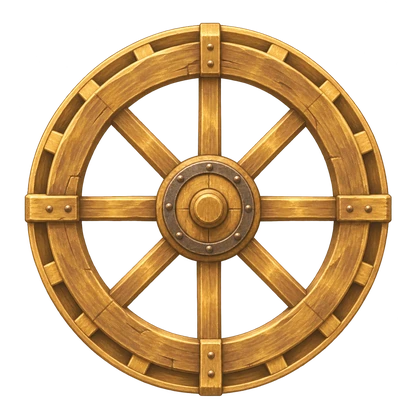
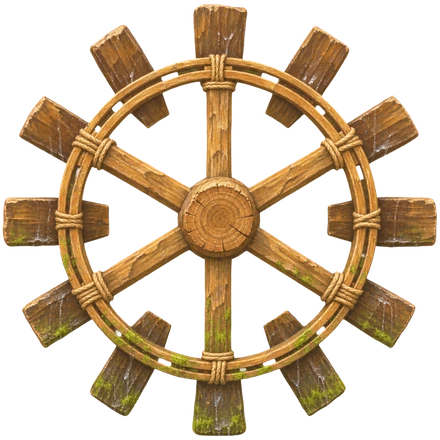
水车换成带叶板的真正水车造型，入水部分着色+浪花
Claude-Session: https://claude.ai/code/session_01Ug7SvjxsTvGWtWQTYLfcGg

diff --git a/js/assets.js b/js/assets.js
@@ -1,2 +1,2 @@
 // 素材清单（相对路径版）。单文件版里这一段会被换成内嵌的 data URI。
-window.ASSETS = {"img": {"axiu": "assets/axiu.webp", "b_axiu": "assets/b_axiu.webp", "b_dao_dz": "assets/b_dao_dz.webp", "b_dao_dz_m": "assets/b_dao_dz_m.webp", "b_dao_qm": "assets/b_dao_qm.webp", "b_dao_qm_m": "assets/b_dao_qm_m.webp", "b_dao_ty": "assets/b_dao_ty.webp", "b_dao_ty_m": "assets/b_dao_ty_m.webp", "b_deer": "assets/b_deer.webp", "b_fox": "assets/b_fox.webp", "b_girl": "assets/b_girl.webp", "b_hawk": "assets/b_hawk.webp", "b_mo_dj": "assets/b_mo_dj.webp", "b_mo_dj_m": "assets/b_mo_dj_m.webp", "b_mo_dz": "assets/b_mo_dz.webp", "b_mo_dz_m": "assets/b_mo_dz_m.webp", "b_mo_ms": "assets/b_mo_ms.webp", "b_mo_ms_m": "assets/b_mo_ms_m.webp", "b_novice_f": "assets/b_novice_f.webp", "b_novice_m": "assets/b_novice_m.webp", "b_player": "assets/b_player.webp", "b_rabbit": "assets/b_rabbit.webp", "b_ss_1221": "assets/b_ss_1221.webp", "b_ss_1222": "assets/b_ss_1222.webp", "b_ss_1223": "assets/b_ss_1223.webp", "b_ss_1224": "assets/b_ss_1224.webp", "b_ss_1225": "assets/b_ss_1225.webp", "b_ss_1226": "assets/b_ss_1226.webp", "b_ss_1227": "assets/b_ss_1227.webp", "b_ss_bs20": "assets/b_ss_bs20.webp", "b_tiger": "assets/b_tiger.webp", "b_wuchen": "assets/b_wuchen.webp", "b_yan": "assets/b_yan.webp", "bc_dao_dz": "assets/bc_dao_dz.webp", "bc_dao_dz_m": "assets/bc_dao_dz_m.webp", "bc_dao_qm": "assets/bc_dao_qm.webp", "bc_dao_qm_m": "assets/bc_dao_qm_m.webp", "bc_dao_ty": "assets/bc_dao_ty.webp", "bc_dao_ty_m": "assets/bc_dao_ty_m.webp", "bc_mo_dj": "assets/bc_mo_dj.webp", "bc_mo_dj_m": "assets/bc_mo_dj_m.webp", "bc_mo_dz": "assets/bc_mo_dz.webp", "bc_mo_dz_m": "assets/bc_mo_dz_m.webp", "bc_mo_ms": "assets/bc_mo_ms.webp", "bc_mo_ms_m": "assets/bc_mo_ms_m.webp", "bg_battle": "assets/bg_battle.webp", "bg_battle2": "assets/bg_battle2.webp", "bg_creek": "assets/bg_creek.webp", "bg_mist": "assets/bg_mist.webp", "bg_outskirts": "assets/bg_outskirts.webp", "bg_pine": "assets/bg_pine.webp", "bg_taixuforest": "assets/bg_taixuforest.webp", "bg_taixupeak": "assets/bg_taixupeak.webp", "bg_taixuvalley": "assets/bg_taixuvalley.webp", "bg_tower1": "assets/bg_tower1.webp", "bg_tower2": "assets/bg_tower2.webp", "bg_tower3": "assets/bg_tower3.webp", "bg_tower4": "assets/bg_tower4.webp", "bg_tower5": "assets/bg_tower5.webp", "bg_tower6": "assets/bg_tower6.webp", "bg_tower7": "assets/bg_tower7.webp", "bg_town": "assets/bg_town.webp", "bg_village": "assets/bg_village.webp", "bg_wild": "assets/bg_wild.webp", "bg_wolfvalley": "assets/bg_wolfvalley.webp", "boar": "assets/boar.webp", "boss": "assets/boss.webp", "bp_ss_1221": "assets/bp_ss_1221.webp", "bp_ss_1222": "assets/bp_ss_1222.webp", "bp_ss_1223": "assets/bp_ss_1223.webp", "bp_ss_1224": "assets/bp_ss_1224.webp", "bp_ss_1225": "assets/bp_ss_1225.webp", "bp_ss_1226": "assets/bp_ss_1226.webp", "bp_ss_1227": "assets/bp_ss_1227.webp", "bp_ss_bs20": "assets/bp_ss_bs20.webp", "cls_dao_dz": "assets/cls_dao_dz.webp", "cls_dao_dz_m": "assets/cls_dao_dz_m.webp", "cls_dao_qm": "assets/cls_dao_qm.webp", "cls_dao_qm_m": "assets/cls_dao_qm_m.webp", "cls_dao_ty": "assets/cls_dao_ty.webp", "cls_dao_ty_m": "assets/cls_dao_ty_m.webp", "cls_f_bow": "assets/cls_f_bow.webp", "cls_f_heal": "assets/cls_f_heal.webp", "cls_f_sword": "assets/cls_f_sword.webp", "cls_m_mage": "assets/cls_m_mage.webp", "cls_m_spear": "assets/cls_m_spear.webp", "cls_m_sword": "assets/cls_m_sword.webp", "cls_mo_dj": "assets/cls_mo_dj.webp", "cls_mo_dj_m": "assets/cls_mo_dj_m.webp", "cls_mo_dz": "assets/cls_mo_dz.webp", "cls_mo_dz_m": "assets/cls_mo_dz_m.webp", "cls_mo_ms": "assets/cls_mo_ms.webp", "cls_mo_ms_m": "assets/cls_mo_ms_m.webp", "cls_novice_f": "assets/cls_novice_f.webp", "cls_novice_m": "assets/cls_novice_m.webp", "dummy": "assets/dummy.webp", "elder": "assets/elder.webp", "f_blade": "assets/f_blade.webp", "f_crane": "assets/f_crane.webp", "f_dragon": "assets/f_dragon.webp", "f_healer": "assets/f_healer.webp", "f_panda": "assets/f_panda.webp", "f_panther": "assets/f_panther.webp", "f_spear": "assets/f_spear.webp", "f_sword": "assets/f_sword.webp", "f_tao": "assets/f_tao.webp", "f_tortoise": "assets/f_tortoise.webp", "fox": "assets/fox.webp", "fx_chain": "assets/fx_chain.webp", "fx_heal": "assets/fx_heal.webp", "fx_mist": "assets/fx_mist.webp", "fx_notes": "assets/fx_notes.webp", "fx_revive": "assets/fx_revive.webp", "fx_ring": "assets/fx_ring.webp", "fx_soul": "assets/fx_soul.webp", "fx_wave": "assets/fx_wave.webp", "fxc_chain": "assets/fxc_chain.webp", "fxc_heal": "assets/fxc_heal.webp", "fxc_mist": "assets/fxc_mist.webp", "fxc_notes": "assets/fxc_notes.webp", "fxc_revive": "assets/fxc_revive.webp", "fxc_soul": "assets/fxc_soul.webp", "fxc_wave": "assets/fxc_wave.webp", "girl": "assets/girl.webp", "grunt": "assets/grunt.webp", "head_axiu": "assets/head_axiu.webp", "head_dao_dz": "assets/head_dao_dz.webp", "head_dao_dz_m": "assets/head_dao_dz_m.webp", "head_dao_qm": "assets/head_dao_qm.webp", "head_dao_qm_m": "assets/head_dao_qm_m.webp", "head_dao_ty": "assets/head_dao_ty.webp", "head_dao_ty_m": "assets/head_dao_ty_m.webp", "head_elder": "assets/head_elder.webp", "head_f_bow": "assets/head_f_bow.webp", "head_f_heal": "assets/head_f_heal.webp", "head_f_sword": "assets/head_f_sword.webp", "head_girl": "assets/head_girl.webp", "head_kk_npc07": "assets/head_kk_npc07.webp", "head_kk_npc13": "assets/head_kk_npc13.webp", "head_kk_npc14": "assets/head_kk_npc14.webp", "head_kk_npc33": "assets/head_kk_npc33.webp", "head_kk_npc45": "assets/head_kk_npc45.webp", "head_kk_npc47": "assets/head_kk_npc47.webp", "head_kk_npc57": "assets/head_kk_npc57.webp", "head_kk_npc_cyblq": "assets/head_kk_npc_cyblq.webp", "head_kk_npc_zhw": "assets/head_kk_npc_zhw.webp", "head_m_mage": "assets/head_m_mage.webp", "head_m_spear": "assets/head_m_spear.webp", "head_m_sword": "assets/head_m_sword.webp", "head_mo_dj": "assets/head_mo_dj.webp", "head_mo_dj_m": "assets/head_mo_dj_m.webp", "head_mo_dz": "assets/head_mo_dz.webp", "head_mo_dz_m": "assets/head_mo_dz_m.webp", "head_mo_ms": "assets/head_mo_ms.webp", "head_mo_ms_m": "assets/head_mo_ms_m.webp", "head_novice_f": "assets/head_novice_f.webp", "head_novice_m": "assets/head_novice_m.webp", "head_player": "assets/head_player.webp", "head_smith": "assets/head_smith.webp", "head_vendor": "assets/head_vendor.webp", "head_waiter": "assets/head_waiter.webp", "icon_act": "assets/icon_act.webp", "icon_auto": "assets/icon_auto.webp", "icon_bag": "assets/icon_bag.webp", "icon_friend": "assets/icon_friend.webp", "icon_gear": "assets/icon_gear.webp", "icon_gift": "assets/icon_gift.webp", "icon_guild": "assets/icon_guild.webp", "icon_mall": "assets/icon_mall.webp", "icon_map": "assets/icon_map.webp", "icon_pet": "assets/icon_pet.webp", "icon_potion": "assets/icon_potion.webp", "icon_quest": "assets/icon_quest.webp", "icon_rank": "assets/icon_rank.webp", "icon_ride": "assets/icon_ride.webp", "icon_role": "assets/icon_role.webp", "icon_skill": "assets/icon_skill.webp", "item_bagua_mirror": "assets/item_bagua_mirror.webp", "item_brocade_pouch": "assets/item_brocade_pouch.webp", "item_bronze_bell": "assets/item_bronze_bell.webp", "item_chest": "assets/item_chest.webp", "item_cloth_armor": "assets/item_cloth_armor.webp", "item_cloth_boots": "assets/item_cloth_boots.webp", "item_cloud_boots": "assets/item_cloud_boots.webp", "item_coins": "assets/item_coins.webp", "item_copper_ring": "assets/item_copper_ring.webp", "item_crimson_sword": "assets/item_crimson_sword.webp", "item_forge_1": "assets/item_forge_1.webp", "item_forge_2": "assets/item_forge_2.webp", "item_forge_3": "assets/item_forge_3.webp", "item_forge_4": "assets/item_forge_4.webp", "item_forge_5": "assets/item_forge_5.webp", "item_gem_atk": "assets/item_gem_atk.webp", "item_gem_crit": "assets/item_gem_crit.webp", "item_gem_def": "assets/item_gem_def.webp", "item_gem_dodge": "assets/item_gem_dodge.webp", "item_gem_hp": "assets/item_gem_hp.webp", "item_gem_matk": "assets/item_gem_matk.webp", "item_gem_mdef": "assets/item_gem_mdef.webp", "item_gem_mp": "assets/item_gem_mp.webp", "item_gem_spd": "assets/item_gem_spd.webp", "item_herb_pouch": "assets/item_herb_pouch.webp", "item_hp_potion": "assets/item_hp_potion.webp", "item_iron_armor": "assets/item_iron_armor.webp", "item_iron_greaves": "assets/item_iron_greaves.webp", "item_iron_helm": "assets/item_iron_helm.webp", "item_iron_sword": "assets/item_iron_sword.webp", "item_jade_belt": "assets/item_jade_belt.webp", "item_jade_charm": "assets/item_jade_charm.webp", "item_jade_pendant": "assets/item_jade_pendant.webp", "item_jade_sword": "assets/item_jade_sword.webp", "item_lantern": "assets/item_lantern.webp", "item_leather_armor": "assets/item_leather_armor.webp", "item_leather_bracer": "assets/item_leather_bracer.webp", "item_leather_cap": "assets/item_leather_cap.webp", "item_linen_belt": "assets/item_linen_belt.webp", "item_linen_legs": "assets/item_linen_legs.webp", "item_mp_potion": "assets/item_mp_potion.webp", "item_ore": "assets/item_ore.webp", "item_peace_charm": "assets/item_peace_charm.webp", "item_phoenix_armor": "assets/item_phoenix_armor.webp", "item_sachet": "assets/item_sachet.webp", "item_scale_armor": "assets/item_scale_armor.webp", "item_silver_ring": "assets/item_silver_ring.webp", "item_steel_bracer": "assets/item_steel_bracer.webp", "item_steel_saber": "assets/item_steel_saber.webp", "item_steel_sword": "assets/item_steel_sword.webp", "item_wolf_fang": "assets/item_wolf_fang.webp", "item_wood_beads": "assets/item_wood_beads.webp", "kk_npc07": "assets/kk_npc07.webp", "kk_npc13": "assets/kk_npc13.webp", "kk_npc14": "assets/kk_npc14.webp", "kk_npc33": "assets/kk_npc33.webp", "kk_npc45": "assets/kk_npc45.webp", "kk_npc47": "assets/kk_npc47.webp", "kk_npc57": "assets/kk_npc57.webp", "kk_npc_cyblq": "assets/kk_npc_cyblq.webp", "kk_npc_zhw": "assets/kk_npc_zhw.webp", "login": "assets/login.webp", "mini_creek": "assets/mini_creek.jpg", "mini_mist": "assets/mini_mist.jpg", "mini_outskirts": "assets/mini_outskirts.jpg", "mini_pine": "assets/mini_pine.jpg", "mini_taixuforest": "assets/mini_taixuforest.jpg", "mini_taixupeak": "assets/mini_taixupeak.jpg", "mini_taixuvalley": "assets/mini_taixuvalley.jpg", "mini_tower1": "assets/mini_tower1.jpg", "mini_tower2": "assets/mini_tower2.jpg", "mini_tower3": "assets/mini_tower3.jpg", "mini_tower4": "assets/mini_tower4.jpg", "mini_tower5": "assets/mini_tower5.jpg", "mini_tower6": "assets/mini_tower6.jpg", "mini_tower7": "assets/mini_tower7.jpg", "mini_town": "assets/mini_town.jpg", "mini_village": "assets/mini_village.jpg", "mini_wild": "assets/mini_wild.jpg", "mini_wolfvalley": "assets/mini_wolfvalley.jpg", "pd_ss_1221": "assets/pd_ss_1221.webp", "pd_ss_1222": "assets/pd_ss_1222.webp", "pd_ss_1223": "assets/pd_ss_1223.webp", "pd_ss_1224": "assets/pd_ss_1224.webp", "pd_ss_1225": "assets/pd_ss_1225.webp", "pd_ss_1226": "assets/pd_ss_1226.webp", "pd_ss_1227": "assets/pd_ss_1227.webp", "pd_ss_bs20": "assets/pd_ss_bs20.webp", "pfx_ss_1221": "assets/pfx_ss_1221.webp", "pfx_ss_1222": "assets/pfx_ss_1222.webp", "pfx_ss_1223": "assets/pfx_ss_1223.webp", "pfx_ss_1224": "assets/pfx_ss_1224.webp", "pfx_ss_1225": "assets/pfx_ss_1225.webp", "pfx_ss_1226": "assets/pfx_ss_1226.webp", "pfx_ss_1227": "assets/pfx_ss_1227.webp", "pfx_ss_bs20": "assets/pfx_ss_bs20.webp", "player": "assets/player.webp", "smith": "assets/smith.webp", "vendor": "assets/vendor.webp", "waiter": "assets/waiter.webp", "walk_b": "assets/walk_b.webp", "walk_b_dao_dz": "assets/walk_b_dao_dz.webp", "walk_b_dao_dz_m": "assets/walk_b_dao_dz_m.webp", "walk_b_dao_qm": "assets/walk_b_dao_qm.webp", "walk_b_dao_qm_m": "assets/walk_b_dao_qm_m.webp", "walk_b_dao_ty": "assets/walk_b_dao_ty.webp", "walk_b_dao_ty_m": "assets/walk_b_dao_ty_m.webp", "walk_b_mo_dj": "assets/walk_b_mo_dj.webp", "walk_b_mo_dj_m": "assets/walk_b_mo_dj_m.webp", "walk_b_mo_dz": "assets/walk_b_mo_dz.webp", "walk_b_mo_dz_m": "assets/walk_b_mo_dz_m.webp", "walk_b_mo_ms": "assets/walk_b_mo_ms.webp", "walk_b_mo_ms_m": "assets/walk_b_mo_ms_m.webp", "walk_b_novice_f": "assets/walk_b_novice_f.webp", "walk_b_novice_m": "assets/walk_b_novice_m.webp", "walk_f": "assets/walk_f.webp", "walk_f_dao_dz": "assets/walk_f_dao_dz.webp", "walk_f_dao_dz_m": "assets/walk_f_dao_dz_m.webp", "walk_f_dao_qm": "assets/walk_f_dao_qm.webp", "walk_f_dao_qm_m": "assets/walk_f_dao_qm_m.webp", "walk_f_dao_ty": "assets/walk_f_dao_ty.webp", "walk_f_dao_ty_m": "assets/walk_f_dao_ty_m.webp", "walk_f_mo_dj": "assets/walk_f_mo_dj.webp", "walk_f_mo_dj_m": "assets/walk_f_mo_dj_m.webp", "walk_f_mo_dz": "assets/walk_f_mo_dz.webp", "walk_f_mo_dz_m": "assets/walk_f_mo_dz_m.webp", "walk_f_mo_ms": "assets/walk_f_mo_ms.webp", "walk_f_mo_ms_m": "assets/walk_f_mo_ms_m.webp", "walk_f_novice_f": "assets/walk_f_novice_f.webp", "walk_f_novice_m": "assets/walk_f_novice_m.webp", "wolf": "assets/wolf.webp", "world": "assets/world.webp", "kk_mo_ms": "assets/kk_mo_ms.webp", "head_kk_mo_ms": "assets/head_kk_mo_ms.webp", "kk_mo_dj": "assets/kk_mo_dj.webp", "head_kk_mo_dj": "assets/head_kk_mo_dj.webp", "fx_mo_tiger": "assets/fx_mo_tiger.webp", "fx_mo_roar": "assets/fx_mo_roar.webp", "fx_mo_slash": "assets/fx_mo_slash.webp", "fx_mo_blood": "assets/fx_mo_blood.webp", "fx_mo_pojia": "assets/fx_mo_pojia.webp", "fx_mo_bone": "assets/fx_mo_bone.webp", "fx_mo_song": "assets/fx_mo_song.webp", "fx_mo_dragon": "assets/fx_mo_dragon.webp", "ph_ss_1221": "assets/ph_ss_1221.webp", "ph_ss_1222": "assets/ph_ss_1222.webp", "ph_ss_1223": "assets/ph_ss_1223.webp", "ph_ss_1224": "assets/ph_ss_1224.webp", "ph_ss_1225": "assets/ph_ss_1225.webp", "ph_ss_1226": "assets/ph_ss_1226.webp", "ph_ss_1227": "assets/ph_ss_1227.webp", "ph_ss_bs20": "assets/ph_ss_bs20.webp", "kk_axiu": "assets/kk_axiu.webp", "head_kk_axiu": "assets/head_kk_axiu.webp", "portal_array": "assets/portal_array.webp", "wheel": "assets/wheel.webp"}, "size": {"player": [55.0, 112.0], "fox": [39.0, 50.0], "waiter": [46.5, 102.0], "smith": [62.0, 112.0], "girl": [48.0, 102.0], "vendor": [54.0, 100.0], "grunt": [96.5, 108.0], "wolf": [89.5, 72.0], "boss": [128.5, 150.0], "elder": [59.5, 104.0], "axiu": [50.5, 100.0], "dummy": [66.5, 110.0], "boar": [74.5, 78.0], "b_player": [99.0, 130.0], "b_axiu": [53.5, 124.0], "b_girl": [76.0, 128.0], "b_yan": [79.0, 132.0], "b_wuchen": [104.0, 132.0], "b_fox": [51.5, 66.0], "b_deer": [52.0, 80.0], "b_rabbit": [40.5, 60.0], "b_hawk": [109.5, 74.0], "b_tiger": [68.0, 68.0], "f_sword": [78.0, 130.0], "f_tao": [75.0, 134.0], "f_blade": [98.5, 140.0], "f_healer": [79.5, 130.0], "f_spear": [97.0, 134.0], "f_panther": [63.0, 62.0], "f_crane": [94.0, 86.0], "f_dragon": [64.5, 78.0], "f_panda": [82.0, 68.0], "f_tortoise": [65.0, 60.0], "world": [2300, 2300], "walk_f": [77.0, 123.5, 35.217675941080195], "walk_b": [66.5, 120.0, 45.688926458157226], "walk_f_dao_ty": [97.0, 121.5, 51.24558587479936], "walk_b_dao_ty": [87.0, 120.0, 45.2175], "walk_f_dao_qm": [97.0, 120.5, 51.42605915267786], "walk_b_dao_qm": [90.0, 120.0, 46.9875], "b_dao_ty": [114.5, 126.0], "b_dao_qm": [133.5, 126.0], "walk_f_novice_f": [101.0, 121.0, 41.202657807308974], "walk_b_novice_f": [90.0, 123.5, 48.051238257899236], "b_novice_f": [117.0, 126.0], "walk_f_novice_m": [108.0, 120.0, 46.58414239482201], "walk_b_novice_m": [80.0, 122.5, 35.21258503401361], "b_novice_m": [128.0, 126.0], "walk_f_dao_ty_m": [67.5, 121.5, 32.28397873955961], "walk_b_dao_ty_m": [66.5, 122.5, 36.781015820149875], "walk_f_dao_qm_m": [62.5, 123.0, 30.910906298003074], "walk_b_dao_qm_m": [68.5, 120.5, 31.071155317521043], "b_dao_ty_m": [91.0, 126.0], "b_dao_qm_m": [129.5, 126.0], "walk_f_dao_dz": [96.5, 121.5, 51.97423510466989], "walk_b_dao_dz": [89.5, 120.0, 48.87468671679198], "b_dao_dz": [93.0, 126.0], "walk_f_dao_dz_m": [73.0, 122.5, 33.87975646879757], "walk_b_dao_dz_m": [67.5, 122.0, 39.39297658862876], "b_dao_dz_m": [69.0, 126.0], "bc_dao_dz": [145.0, 145.0], "bc_dao_dz_m": [105.0, 145.0], "bc_dao_qm": [148.5, 145.0], "bc_dao_qm_m": [113.0, 145.0], "bc_dao_ty": [123.5, 145.0], "bc_dao_ty_m": [124.0, 145.0], "walk_f_mo_ms": [108.0, 120.0, 61.297478991596634], "walk_b_mo_ms": [114.5, 120.0, 49.28597449908925], "b_mo_ms": [102.0, 126.0], "bc_mo_ms": [149.0, 145.0], "walk_f_mo_ms_m": [109.5, 122.5, 65.20658135283364], "walk_b_mo_ms_m": [103.5, 124.5, 38.951557093425606], "b_mo_ms_m": [105.0, 126.0], "bc_mo_ms_m": [154.5, 145.0], "walk_f_mo_dj": [91.0, 121.5, 47.10910582444627], "walk_b_mo_dj": [84.0, 123.0, 42.84987694831829], "b_mo_dj": [79.0, 126.0], "bc_mo_dj": [151.0, 145.0], "walk_f_mo_dj_m": [90.0, 121.0, 53.61199294532628], "walk_b_mo_dj_m": [88.0, 124.5, 38.284751474304976], "b_mo_dj_m": [83.0, 126.0], "bc_mo_dj_m": [163.5, 145.0], "walk_f_mo_dz": [79.5, 120.5, 40.15627597672486], "walk_b_mo_dz": [83.0, 120.0, 38.76588337684944], "b_mo_dz": [87.0, 126.0], "bc_mo_dz": [156.5, 145.0], "walk_f_mo_dz_m": [88.5, 120.0, 49.593333333333334], "walk_b_mo_dz_m": [86.5, 122.0, 37.96190476190476], "b_mo_dz_m": [90.5, 126.0], "bc_mo_dz_m": [163.0, 145.0], "b_ss_1221": [140.8, 158], "bp_ss_1221": [227.2, 172.8], "b_ss_1222": [132.6, 160], "bp_ss_1222": [188.8, 162.8], "b_ss_1223": [121.1, 150], "bp_ss_1223": [172.4, 157.7], "b_ss_1224": [117.5, 150], "bp_ss_1224": [188.4, 155.7], "b_ss_1225": [143.4, 150], "bp_ss_1225": [238.4, 152.3], "b_ss_1226": [152.2, 165], "bp_ss_1226": [259.3, 183.2], "b_ss_1227": [95.6, 142], "bp_ss_1227": [170.2, 146.1], "b_ss_bs20": [129.8, 112], "bp_ss_bs20": [225.3, 121.5], "pfx_ss_1227": [184.1, 90.3], "pfx_ss_1222": [268.2, 75.5], "pfx_ss_1223": [238.2, 107.6], "pfx_ss_1224": [289.6, 277.1], "pfx_ss_1225": [237.3, 527.3], "pfx_ss_1226": [208.8, 123.8], "pfx_ss_1221": [205.3, 153.5], "pfx_ss_bs20": [154.5, 138.8], "pd_ss_1221": [153.0, 158], "pd_ss_1222": [151.2, 160], "pd_ss_1223": [141.6, 150], "pd_ss_1224": [136.6, 150], "pd_ss_1225": [194.9, 150], "pd_ss_1226": [195.0, 165], "pd_ss_1227": [117.2, 142], "pd_ss_bs20": [128.2, 112], "kk_npc14": [58.0, 104.0], "kk_npc_zhw": [78.0, 118.0], "kk_npc_cyblq": [107.0, 132.0], "kk_npc13": [48.0, 104.0], "kk_npc07": [47.0, 104.0], "kk_npc33": [49.5, 104.0], "kk_npc57": [145.0, 150.0], "kk_npc45": [120.0, 150.0], "kk_npc47": [143.0, 156.0], "kk_mo_ms": [138.0, 150.0], "kk_mo_dj": [117.0, 150.0], "kk_axiu": [54.5, 104.0], "portal_array": [200.0, 95.0], "wheel": [420, 416]}, "pet": {"b_ss_1221": {"sheet": "bp_ss_1221", "cols": 6, "rows": 2, "cw": 227.2, "ch": 172.8, "ox": 113.6, "by": 0, "H": 158, "seq": {"idle": [[0, 150]], "atk": [[4, 120], [5, 120], [6, 120], [7, 120]], "hit": [[8, 110], [9, 110]], "dodge": [[10, 110]]}, "rel": {"atk": 2}, "pfx": {"sheet": "pfx_ss_1221", "n": 4, "cw": 205.3, "ch": 153.5, "map": {"ss_hit": [0, 1], "ss_qk": [2, 3]}, "sc": {"ss_hit": 0.9, "ss_qk": 1.2}}}, "b_ss_1222": {"sheet": "bp_ss_1222", "cols": 6, "rows": 2, "cw": 188.8, "ch": 162.8, "ox": 94.4, "by": 0, "H": 160, "seq": {"idle": [[0, 150]], "atk": [[4, 120], [5, 120], [6, 120], [7, 120]], "hit": [[8, 110], [9, 110]], "dodge": [[10, 110]]}, "rel": {"atk": 2}, "pfx": {"sheet": "pfx_ss_1222", "n": 4, "cw": 268.2, "ch": 75.5, "map": {"ss_hit": [0, 1], "ss_sy": [2, 3]}, "sc": {"ss_hit": 1, "ss_sy": 1.2}}}, "b_ss_1223": {"sheet": "bp_ss_1223", "cols": 6, "rows": 2, "cw": 172.4, "ch": 157.7, "ox": 86.2, "by": 0, "H": 150, "seq": {"idle": [[0, 150]], "atk": [[4, 120], [5, 120], [6, 120], [7, 120]], "hit": [[8, 110], [9, 110]], "dodge": [[10, 110]]}, "rel": {"atk": 2}, "pfx": {"sheet": "pfx_ss_1223", "n": 6, "cw": 238.2, "ch": 107.6, "map": {"ss_hit": [0, 1], "ss_sx": [2, 3], "ss_tsy": [4, 5]}, "sc": {"ss_hit": 1, "ss_sx": 1.1, "ss_tsy": 1.3}}}, "b_ss_1224": {"sheet": "bp_ss_1224", "cols": 6, "rows": 2, "cw": 188.4, "ch": 155.7, "ox": 94.2, "by": 0, "H": 150, "seq": {"idle": [[0, 150]], "atk": [[4, 120], [5, 120], [6, 120], [7, 120]], "hit": [[8, 110], [9, 110]], "dodge": [[10, 110]]}, "rel": {"atk": 2}, "pfx": {"sheet": "pfx_ss_1224", "n": 3, "cw": 289.6, "ch": 277.1, "map": {"ss_hit": [0], "ss_ts": [1, 2]}, "sc": {"ss_hit": 1, "ss_ts": 1.2}}}, "b_ss_1225": {"sheet": "bp_ss_1225", "cols": 6, "rows": 2, "cw": 238.4, "ch": 152.3, "ox": 119.2, "by": 0, "H": 150, "seq": {"idle": [[0, 150]], "atk": [[4, 120], [5, 120], [6, 120], [7, 120]], "hit": [[8, 110], [9, 110]], "dodge": [[10, 110]]}, "rel": {"atk": 2}, "pfx": {"sheet": "pfx_ss_1225", "n": 4, "cw": 237.3, "ch": 527.3, "map": {"ss_hit": [0, 1], "ss_sg": [2, 3]}, "sc": {"ss_hit": 1, "ss_sg": 1.3}}}, "b_ss_1226": {"sheet": "bp_ss_1226", "cols": 6, "rows": 2, "cw": 259.3, "ch": 183.2, "ox": 129.7, "by": 0, "H": 165, "seq": {"idle": [[0, 150]], "atk": [[4, 120], [5, 120], [6, 120], [7, 120]], "hit": [[8, 110], [9, 110]], "dodge": [[10, 110]]}, "rel": {"atk": 2}, "pfx": {"sheet": "pfx_ss_1226", "n": 10, "cw": 208.8, "ch": 123.8, "map": {"ss_hit": [0, 1, 2, 3], "ss_th": [4, 5, 6], "ss_dy": [7, 8, 9]}, "sc": {"ss_hit": 1, "ss_th": 1.5, "ss_dy": 1.2}}}, "b_ss_1227": {"sheet": "bp_ss_1227", "cols": 6, "rows": 2, "cw": 170.2, "ch": 146.1, "ox": 85.1, "by": 0, "H": 142, "seq": {"idle": [[0, 150]], "atk": [[4, 120], [5, 120], [6, 120], [7, 120]], "hit": [[8, 110], [9, 110]], "dodge": [[10, 110]]}, "rel": {"atk": 2}, "pfx": {"sheet": "pfx_ss_1227", "n": 7, "cw": 184.1, "ch": 90.3, "map": {"ss_hit": [0, 1], "ss_sl_bw": [2, 3], "ss_kl": [4, 5, 6]}, "sc": {"ss_hit": 1, "ss_sl_bw": 1, "ss_kl": 1.3}}}, "b_ss_bs20": {"sheet": "bp_ss_bs20", "cols": 6, "rows": 2, "cw": 225.3, "ch": 121.5, "ox": 112.6, "by": 0, "H": 112, "seq": {"idle": [[0, 150]], "atk": [[4, 120], [5, 120], [6, 120], [7, 120]], "hit": [[8, 110], [9, 110]], "dodge": [[10, 110]]}, "rel": {"atk": 2}, "pfx": {"sheet": "pfx_ss_bs20", "n": 6, "cw": 154.5, "ch": 138.8, "map": {"attack": [0, 1], "bite": [2, 3], "foxfire": [4, 5]}, "sc": {"attack": 1, "bite": 1, "foxfire": 1.3}}}}, "occ": {}};
+window.ASSETS = {"img": {"axiu": "assets/axiu.webp", "b_axiu": "assets/b_axiu.webp", "b_dao_dz": "assets/b_dao_dz.webp", "b_dao_dz_m": "assets/b_dao_dz_m.webp", "b_dao_qm": "assets/b_dao_qm.webp", "b_dao_qm_m": "assets/b_dao_qm_m.webp", "b_dao_ty": "assets/b_dao_ty.webp", "b_dao_ty_m": "assets/b_dao_ty_m.webp", "b_deer": "assets/b_deer.webp", "b_fox": "assets/b_fox.webp", "b_girl": "assets/b_girl.webp", "b_hawk": "assets/b_hawk.webp", "b_mo_dj": "assets/b_mo_dj.webp", "b_mo_dj_m": "assets/b_mo_dj_m.webp", "b_mo_dz": "assets/b_mo_dz.webp", "b_mo_dz_m": "assets/b_mo_dz_m.webp", "b_mo_ms": "assets/b_mo_ms.webp", "b_mo_ms_m": "assets/b_mo_ms_m.webp", "b_novice_f": "assets/b_novice_f.webp", "b_novice_m": "assets/b_novice_m.webp", "b_player": "assets/b_player.webp", "b_rabbit": "assets/b_rabbit.webp", "b_ss_1221": "assets/b_ss_1221.webp", "b_ss_1222": "assets/b_ss_1222.webp", "b_ss_1223": "assets/b_ss_1223.webp", "b_ss_1224": "assets/b_ss_1224.webp", "b_ss_1225": "assets/b_ss_1225.webp", "b_ss_1226": "assets/b_ss_1226.webp", "b_ss_1227": "assets/b_ss_1227.webp", "b_ss_bs20": "assets/b_ss_bs20.webp", "b_tiger": "assets/b_tiger.webp", "b_wuchen": "assets/b_wuchen.webp", "b_yan": "assets/b_yan.webp", "bc_dao_dz": "assets/bc_dao_dz.webp", "bc_dao_dz_m": "assets/bc_dao_dz_m.webp", "bc_dao_qm": "assets/bc_dao_qm.webp", "bc_dao_qm_m": "assets/bc_dao_qm_m.webp", "bc_dao_ty": "assets/bc_dao_ty.webp", "bc_dao_ty_m": "assets/bc_dao_ty_m.webp", "bc_mo_dj": "assets/bc_mo_dj.webp", "bc_mo_dj_m": "assets/bc_mo_dj_m.webp", "bc_mo_dz": "assets/bc_mo_dz.webp", "bc_mo_dz_m": "assets/bc_mo_dz_m.webp", "bc_mo_ms": "assets/bc_mo_ms.webp", "bc_mo_ms_m": "assets/bc_mo_ms_m.webp", "bg_battle": "assets/bg_battle.webp", "bg_battle2": "assets/bg_battle2.webp", "bg_creek": "assets/bg_creek.webp", "bg_mist": "assets/bg_mist.webp", "bg_outskirts": "assets/bg_outskirts.webp", "bg_pine": "assets/bg_pine.webp", "bg_taixuforest": "assets/bg_taixuforest.webp", "bg_taixupeak": "assets/bg_taixupeak.webp", "bg_taixuvalley": "assets/bg_taixuvalley.webp", "bg_tower1": "assets/bg_tower1.webp", "bg_tower2": "assets/bg_tower2.webp", "bg_tower3": "assets/bg_tower3.webp", "bg_tower4": "assets/bg_tower4.webp", "bg_tower5": "assets/bg_tower5.webp", "bg_tower6": "assets/bg_tower6.webp", "bg_tower7": "assets/bg_tower7.webp", "bg_town": "assets/bg_town.webp", "bg_village": "assets/bg_village.webp", "bg_wild": "assets/bg_wild.webp", "bg_wolfvalley": "assets/bg_wolfvalley.webp", "boar": "assets/boar.webp", "boss": "assets/boss.webp", "bp_ss_1221": "assets/bp_ss_1221.webp", "bp_ss_1222": "assets/bp_ss_1222.webp", "bp_ss_1223": "assets/bp_ss_1223.webp", "bp_ss_1224": "assets/bp_ss_1224.webp", "bp_ss_1225": "assets/bp_ss_1225.webp", "bp_ss_1226": "assets/bp_ss_1226.webp", "bp_ss_1227": "assets/bp_ss_1227.webp", "bp_ss_bs20": "assets/bp_ss_bs20.webp", "cls_dao_dz": "assets/cls_dao_dz.webp", "cls_dao_dz_m": "assets/cls_dao_dz_m.webp", "cls_dao_qm": "assets/cls_dao_qm.webp", "cls_dao_qm_m": "assets/cls_dao_qm_m.webp", "cls_dao_ty": "assets/cls_dao_ty.webp", "cls_dao_ty_m": "assets/cls_dao_ty_m.webp", "cls_f_bow": "assets/cls_f_bow.webp", "cls_f_heal": "assets/cls_f_heal.webp", "cls_f_sword": "assets/cls_f_sword.webp", "cls_m_mage": "assets/cls_m_mage.webp", "cls_m_spear": "assets/cls_m_spear.webp", "cls_m_sword": "assets/cls_m_sword.webp", "cls_mo_dj": "assets/cls_mo_dj.webp", "cls_mo_dj_m": "assets/cls_mo_dj_m.webp", "cls_mo_dz": "assets/cls_mo_dz.webp", "cls_mo_dz_m": "assets/cls_mo_dz_m.webp", "cls_mo_ms": "assets/cls_mo_ms.webp", "cls_mo_ms_m": "assets/cls_mo_ms_m.webp", "cls_novice_f": "assets/cls_novice_f.webp", "cls_novice_m": "assets/cls_novice_m.webp", "dummy": "assets/dummy.webp", "elder": "assets/elder.webp", "f_blade": "assets/f_blade.webp", "f_crane": "assets/f_crane.webp", "f_dragon": "assets/f_dragon.webp", "f_healer": "assets/f_healer.webp", "f_panda": "assets/f_panda.webp", "f_panther": "assets/f_panther.webp", "f_spear": "assets/f_spear.webp", "f_sword": "assets/f_sword.webp", "f_tao": "assets/f_tao.webp", "f_tortoise": "assets/f_tortoise.webp", "fox": "assets/fox.webp", "fx_chain": "assets/fx_chain.webp", "fx_heal": "assets/fx_heal.webp", "fx_mist": "assets/fx_mist.webp", "fx_notes": "assets/fx_notes.webp", "fx_revive": "assets/fx_revive.webp", "fx_ring": "assets/fx_ring.webp", "fx_soul": "assets/fx_soul.webp", "fx_wave": "assets/fx_wave.webp", "fxc_chain": "assets/fxc_chain.webp", "fxc_heal": "assets/fxc_heal.webp", "fxc_mist": "assets/fxc_mist.webp", "fxc_notes": "assets/fxc_notes.webp", "fxc_revive": "assets/fxc_revive.webp", "fxc_soul": "assets/fxc_soul.webp", "fxc_wave": "assets/fxc_wave.webp", "girl": "assets/girl.webp", "grunt": "assets/grunt.webp", "head_axiu": "assets/head_axiu.webp", "head_dao_dz": "assets/head_dao_dz.webp", "head_dao_dz_m": "assets/head_dao_dz_m.webp", "head_dao_qm": "assets/head_dao_qm.webp", "head_dao_qm_m": "assets/head_dao_qm_m.webp", "head_dao_ty": "assets/head_dao_ty.webp", "head_dao_ty_m": "assets/head_dao_ty_m.webp", "head_elder": "assets/head_elder.webp", "head_f_bow": "assets/head_f_bow.webp", "head_f_heal": "assets/head_f_heal.webp", "head_f_sword": "assets/head_f_sword.webp", "head_girl": "assets/head_girl.webp", "head_kk_npc07": "assets/head_kk_npc07.webp", "head_kk_npc13": "assets/head_kk_npc13.webp", "head_kk_npc14": "assets/head_kk_npc14.webp", "head_kk_npc33": "assets/head_kk_npc33.webp", "head_kk_npc45": "assets/head_kk_npc45.webp", "head_kk_npc47": "assets/head_kk_npc47.webp", "head_kk_npc57": "assets/head_kk_npc57.webp", "head_kk_npc_cyblq": "assets/head_kk_npc_cyblq.webp", "head_kk_npc_zhw": "assets/head_kk_npc_zhw.webp", "head_m_mage": "assets/head_m_mage.webp", "head_m_spear": "assets/head_m_spear.webp", "head_m_sword": "assets/head_m_sword.webp", "head_mo_dj": "assets/head_mo_dj.webp", "head_mo_dj_m": "assets/head_mo_dj_m.webp", "head_mo_dz": "assets/head_mo_dz.webp", "head_mo_dz_m": "assets/head_mo_dz_m.webp", "head_mo_ms": "assets/head_mo_ms.webp", "head_mo_ms_m": "assets/head_mo_ms_m.webp", "head_novice_f": "assets/head_novice_f.webp", "head_novice_m": "assets/head_novice_m.webp", "head_player": "assets/head_player.webp", "head_smith": "assets/head_smith.webp", "head_vendor": "assets/head_vendor.webp", "head_waiter": "assets/head_waiter.webp", "icon_act": "assets/icon_act.webp", "icon_auto": "assets/icon_auto.webp", "icon_bag": "assets/icon_bag.webp", "icon_friend": "assets/icon_friend.webp", "icon_gear": "assets/icon_gear.webp", "icon_gift": "assets/icon_gift.webp", "icon_guild": "assets/icon_guild.webp", "icon_mall": "assets/icon_mall.webp", "icon_map": "assets/icon_map.webp", "icon_pet": "assets/icon_pet.webp", "icon_potion": "assets/icon_potion.webp", "icon_quest": "assets/icon_quest.webp", "icon_rank": "assets/icon_rank.webp", "icon_ride": "assets/icon_ride.webp", "icon_role": "assets/icon_role.webp", "icon_skill": "assets/icon_skill.webp", "item_bagua_mirror": "assets/item_bagua_mirror.webp", "item_brocade_pouch": "assets/item_brocade_pouch.webp", "item_bronze_bell": "assets/item_bronze_bell.webp", "item_chest": "assets/item_chest.webp", "item_cloth_armor": "assets/item_cloth_armor.webp", "item_cloth_boots": "assets/item_cloth_boots.webp", "item_cloud_boots": "assets/item_cloud_boots.webp", "item_coins": "assets/item_coins.webp", "item_copper_ring": "assets/item_copper_ring.webp", "item_crimson_sword": "assets/item_crimson_sword.webp", "item_forge_1": "assets/item_forge_1.webp", "item_forge_2": "assets/item_forge_2.webp", "item_forge_3": "assets/item_forge_3.webp", "item_forge_4": "assets/item_forge_4.webp", "item_forge_5": "assets/item_forge_5.webp", "item_gem_atk": "assets/item_gem_atk.webp", "item_gem_crit": "assets/item_gem_crit.webp", "item_gem_def": "assets/item_gem_def.webp", "item_gem_dodge": "assets/item_gem_dodge.webp", "item_gem_hp": "assets/item_gem_hp.webp", "item_gem_matk": "assets/item_gem_matk.webp", "item_gem_mdef": "assets/item_gem_mdef.webp", "item_gem_mp": "assets/item_gem_mp.webp", "item_gem_spd": "assets/item_gem_spd.webp", "item_herb_pouch": "assets/item_herb_pouch.webp", "item_hp_potion": "assets/item_hp_potion.webp", "item_iron_armor": "assets/item_iron_armor.webp", "item_iron_greaves": "assets/item_iron_greaves.webp", "item_iron_helm": "assets/item_iron_helm.webp", "item_iron_sword": "assets/item_iron_sword.webp", "item_jade_belt": "assets/item_jade_belt.webp", "item_jade_charm": "assets/item_jade_charm.webp", "item_jade_pendant": "assets/item_jade_pendant.webp", "item_jade_sword": "assets/item_jade_sword.webp", "item_lantern": "assets/item_lantern.webp", "item_leather_armor": "assets/item_leather_armor.webp", "item_leather_bracer": "assets/item_leather_bracer.webp", "item_leather_cap": "assets/item_leather_cap.webp", "item_linen_belt": "assets/item_linen_belt.webp", "item_linen_legs": "assets/item_linen_legs.webp", "item_mp_potion": "assets/item_mp_potion.webp", "item_ore": "assets/item_ore.webp", "item_peace_charm": "assets/item_peace_charm.webp", "item_phoenix_armor": "assets/item_phoenix_armor.webp", "item_sachet": "assets/item_sachet.webp", "item_scale_armor": "assets/item_scale_armor.webp", "item_silver_ring": "assets/item_silver_ring.webp", "item_steel_bracer": "assets/item_steel_bracer.webp", "item_steel_saber": "assets/item_steel_saber.webp", "item_steel_sword": "assets/item_steel_sword.webp", "item_wolf_fang": "assets/item_wolf_fang.webp", "item_wood_beads": "assets/item_wood_beads.webp", "kk_npc07": "assets/kk_npc07.webp", "kk_npc13": "assets/kk_npc13.webp", "kk_npc14": "assets/kk_npc14.webp", "kk_npc33": "assets/kk_npc33.webp", "kk_npc45": "assets/kk_npc45.webp", "kk_npc47": "assets/kk_npc47.webp", "kk_npc57": "assets/kk_npc57.webp", "kk_npc_cyblq": "assets/kk_npc_cyblq.webp", "kk_npc_zhw": "assets/kk_npc_zhw.webp", "login": "assets/login.webp", "mini_creek": "assets/mini_creek.jpg", "mini_mist": "assets/mini_mist.jpg", "mini_outskirts": "assets/mini_outskirts.jpg", "mini_pine": "assets/mini_pine.jpg", "mini_taixuforest": "assets/mini_taixuforest.jpg", "mini_taixupeak": "assets/mini_taixupeak.jpg", "mini_taixuvalley": "assets/mini_taixuvalley.jpg", "mini_tower1": "assets/mini_tower1.jpg", "mini_tower2": "assets/mini_tower2.jpg", "mini_tower3": "assets/mini_tower3.jpg", "mini_tower4": "assets/mini_tower4.jpg", "mini_tower5": "assets/mini_tower5.jpg", "mini_tower6": "assets/mini_tower6.jpg", "mini_tower7": "assets/mini_tower7.jpg", "mini_town": "assets/mini_town.jpg", "mini_village": "assets/mini_village.jpg", "mini_wild": "assets/mini_wild.jpg", "mini_wolfvalley": "assets/mini_wolfvalley.jpg", "pd_ss_1221": "assets/pd_ss_1221.webp", "pd_ss_1222": "assets/pd_ss_1222.webp", "pd_ss_1223": "assets/pd_ss_1223.webp", "pd_ss_1224": "assets/pd_ss_1224.webp", "pd_ss_1225": "assets/pd_ss_1225.webp", "pd_ss_1226": "assets/pd_ss_1226.webp", "pd_ss_1227": "assets/pd_ss_1227.webp", "pd_ss_bs20": "assets/pd_ss_bs20.webp", "pfx_ss_1221": "assets/pfx_ss_1221.webp", "pfx_ss_1222": "assets/pfx_ss_1222.webp", "pfx_ss_1223": "assets/pfx_ss_1223.webp", "pfx_ss_1224": "assets/pfx_ss_1224.webp", "pfx_ss_1225": "assets/pfx_ss_1225.webp", "pfx_ss_1226": "assets/pfx_ss_1226.webp", "pfx_ss_1227": "assets/pfx_ss_1227.webp", "pfx_ss_bs20": "assets/pfx_ss_bs20.webp", "player": "assets/player.webp", "smith": "assets/smith.webp", "vendor": "assets/vendor.webp", "waiter": "assets/waiter.webp", "walk_b": "assets/walk_b.webp", "walk_b_dao_dz": "assets/walk_b_dao_dz.webp", "walk_b_dao_dz_m": "assets/walk_b_dao_dz_m.webp", "walk_b_dao_qm": "assets/walk_b_dao_qm.webp", "walk_b_dao_qm_m": "assets/walk_b_dao_qm_m.webp", "walk_b_dao_ty": "assets/walk_b_dao_ty.webp", "walk_b_dao_ty_m": "assets/walk_b_dao_ty_m.webp", "walk_b_mo_dj": "assets/walk_b_mo_dj.webp", "walk_b_mo_dj_m": "assets/walk_b_mo_dj_m.webp", "walk_b_mo_dz": "assets/walk_b_mo_dz.webp", "walk_b_mo_dz_m": "assets/walk_b_mo_dz_m.webp", "walk_b_mo_ms": "assets/walk_b_mo_ms.webp", "walk_b_mo_ms_m": "assets/walk_b_mo_ms_m.webp", "walk_b_novice_f": "assets/walk_b_novice_f.webp", "walk_b_novice_m": "assets/walk_b_novice_m.webp", "walk_f": "assets/walk_f.webp", "walk_f_dao_dz": "assets/walk_f_dao_dz.webp", "walk_f_dao_dz_m": "assets/walk_f_dao_dz_m.webp", "walk_f_dao_qm": "assets/walk_f_dao_qm.webp", "walk_f_dao_qm_m": "assets/walk_f_dao_qm_m.webp", "walk_f_dao_ty": "assets/walk_f_dao_ty.webp", "walk_f_dao_ty_m": "assets/walk_f_dao_ty_m.webp", "walk_f_mo_dj": "assets/walk_f_mo_dj.webp", "walk_f_mo_dj_m": "assets/walk_f_mo_dj_m.webp", "walk_f_mo_dz": "assets/walk_f_mo_dz.webp", "walk_f_mo_dz_m": "assets/walk_f_mo_dz_m.webp", "walk_f_mo_ms": "assets/walk_f_mo_ms.webp", "walk_f_mo_ms_m": "assets/walk_f_mo_ms_m.webp", "walk_f_novice_f": "assets/walk_f_novice_f.webp", "walk_f_novice_m": "assets/walk_f_novice_m.webp", "wolf": "assets/wolf.webp", "world": "assets/world.webp", "kk_mo_ms": "assets/kk_mo_ms.webp", "head_kk_mo_ms": "assets/head_kk_mo_ms.webp", "kk_mo_dj": "assets/kk_mo_dj.webp", "head_kk_mo_dj": "assets/head_kk_mo_dj.webp", "fx_mo_tiger": "assets/fx_mo_tiger.webp", "fx_mo_roar": "assets/fx_mo_roar.webp", "fx_mo_slash": "assets/fx_mo_slash.webp", "fx_mo_blood": "assets/fx_mo_blood.webp", "fx_mo_pojia": "assets/fx_mo_pojia.webp", "fx_mo_bone": "assets/fx_mo_bone.webp", "fx_mo_song": "assets/fx_mo_song.webp", "fx_mo_dragon": "assets/fx_mo_dragon.webp", "ph_ss_1221": "assets/ph_ss_1221.webp", "ph_ss_1222": "assets/ph_ss_1222.webp", "ph_ss_1223": "assets/ph_ss_1223.webp", "ph_ss_1224": "assets/ph_ss_1224.webp", "ph_ss_1225": "assets/ph_ss_1225.webp", "ph_ss_1226": "assets/ph_ss_1226.webp", "ph_ss_1227": "assets/ph_ss_1227.webp", "ph_ss_bs20": "assets/ph_ss_bs20.webp", "kk_axiu": "assets/kk_axiu.webp", "head_kk_axiu": "assets/head_kk_axiu.webp", "portal_array": "assets/portal_array.webp", "wheel": "assets/wheel.webp"}, "size": {"player": [55.0, 112.0], "fox": [39.0, 50.0], "waiter": [46.5, 102.0], "smith": [62.0, 112.0], "girl": [48.0, 102.0], "vendor": [54.0, 100.0], "grunt": [96.5, 108.0], "wolf": [89.5, 72.0], "boss": [128.5, 150.0], "elder": [59.5, 104.0], "axiu": [50.5, 100.0], "dummy": [66.5, 110.0], "boar": [74.5, 78.0], "b_player": [99.0, 130.0], "b_axiu": [53.5, 124.0], "b_girl": [76.0, 128.0], "b_yan": [79.0, 132.0], "b_wuchen": [104.0, 132.0], "b_fox": [51.5, 66.0], "b_deer": [52.0, 80.0], "b_rabbit": [40.5, 60.0], "b_hawk": [109.5, 74.0], "b_tiger": [68.0, 68.0], "f_sword": [78.0, 130.0], "f_tao": [75.0, 134.0], "f_blade": [98.5, 140.0], "f_healer": [79.5, 130.0], "f_spear": [97.0, 134.0], "f_panther": [63.0, 62.0], "f_crane": [94.0, 86.0], "f_dragon": [64.5, 78.0], "f_panda": [82.0, 68.0], "f_tortoise": [65.0, 60.0], "world": [2300, 2300], "walk_f": [77.0, 123.5, 35.217675941080195], "walk_b": [66.5, 120.0, 45.688926458157226], "walk_f_dao_ty": [97.0, 121.5, 51.24558587479936], "walk_b_dao_ty": [87.0, 120.0, 45.2175], "walk_f_dao_qm": [97.0, 120.5, 51.42605915267786], "walk_b_dao_qm": [90.0, 120.0, 46.9875], "b_dao_ty": [114.5, 126.0], "b_dao_qm": [133.5, 126.0], "walk_f_novice_f": [101.0, 121.0, 41.202657807308974], "walk_b_novice_f": [90.0, 123.5, 48.051238257899236], "b_novice_f": [117.0, 126.0], "walk_f_novice_m": [108.0, 120.0, 46.58414239482201], "walk_b_novice_m": [80.0, 122.5, 35.21258503401361], "b_novice_m": [128.0, 126.0], "walk_f_dao_ty_m": [67.5, 121.5, 32.28397873955961], "walk_b_dao_ty_m": [66.5, 122.5, 36.781015820149875], "walk_f_dao_qm_m": [62.5, 123.0, 30.910906298003074], "walk_b_dao_qm_m": [68.5, 120.5, 31.071155317521043], "b_dao_ty_m": [91.0, 126.0], "b_dao_qm_m": [129.5, 126.0], "walk_f_dao_dz": [96.5, 121.5, 51.97423510466989], "walk_b_dao_dz": [89.5, 120.0, 48.87468671679198], "b_dao_dz": [93.0, 126.0], "walk_f_dao_dz_m": [73.0, 122.5, 33.87975646879757], "walk_b_dao_dz_m": [67.5, 122.0, 39.39297658862876], "b_dao_dz_m": [69.0, 126.0], "bc_dao_dz": [145.0, 145.0], "bc_dao_dz_m": [105.0, 145.0], "bc_dao_qm": [148.5, 145.0], "bc_dao_qm_m": [113.0, 145.0], "bc_dao_ty": [123.5, 145.0], "bc_dao_ty_m": [124.0, 145.0], "walk_f_mo_ms": [108.0, 120.0, 61.297478991596634], "walk_b_mo_ms": [114.5, 120.0, 49.28597449908925], "b_mo_ms": [102.0, 126.0], "bc_mo_ms": [149.0, 145.0], "walk_f_mo_ms_m": [109.5, 122.5, 65.20658135283364], "walk_b_mo_ms_m": [103.5, 124.5, 38.951557093425606], "b_mo_ms_m": [105.0, 126.0], "bc_mo_ms_m": [154.5, 145.0], "walk_f_mo_dj": [91.0, 121.5, 47.10910582444627], "walk_b_mo_dj": [84.0, 123.0, 42.84987694831829], "b_mo_dj": [79.0, 126.0], "bc_mo_dj": [151.0, 145.0], "walk_f_mo_dj_m": [90.0, 121.0, 53.61199294532628], "walk_b_mo_dj_m": [88.0, 124.5, 38.284751474304976], "b_mo_dj_m": [83.0, 126.0], "bc_mo_dj_m": [163.5, 145.0], "walk_f_mo_dz": [79.5, 120.5, 40.15627597672486], "walk_b_mo_dz": [83.0, 120.0, 38.76588337684944], "b_mo_dz": [87.0, 126.0], "bc_mo_dz": [156.5, 145.0], "walk_f_mo_dz_m": [88.5, 120.0, 49.593333333333334], "walk_b_mo_dz_m": [86.5, 122.0, 37.96190476190476], "b_mo_dz_m": [90.5, 126.0], "bc_mo_dz_m": [163.0, 145.0], "b_ss_1221": [140.8, 158], "bp_ss_1221": [227.2, 172.8], "b_ss_1222": [132.6, 160], "bp_ss_1222": [188.8, 162.8], "b_ss_1223": [121.1, 150], "bp_ss_1223": [172.4, 157.7], "b_ss_1224": [117.5, 150], "bp_ss_1224": [188.4, 155.7], "b_ss_1225": [143.4, 150], "bp_ss_1225": [238.4, 152.3], "b_ss_1226": [152.2, 165], "bp_ss_1226": [259.3, 183.2], "b_ss_1227": [95.6, 142], "bp_ss_1227": [170.2, 146.1], "b_ss_bs20": [129.8, 112], "bp_ss_bs20": [225.3, 121.5], "pfx_ss_1227": [184.1, 90.3], "pfx_ss_1222": [268.2, 75.5], "pfx_ss_1223": [238.2, 107.6], "pfx_ss_1224": [289.6, 277.1], "pfx_ss_1225": [237.3, 527.3], "pfx_ss_1226": [208.8, 123.8], "pfx_ss_1221": [205.3, 153.5], "pfx_ss_bs20": [154.5, 138.8], "pd_ss_1221": [153.0, 158], "pd_ss_1222": [151.2, 160], "pd_ss_1223": [141.6, 150], "pd_ss_1224": [136.6, 150], "pd_ss_1225": [194.9, 150], "pd_ss_1226": [195.0, 165], "pd_ss_1227": [117.2, 142], "pd_ss_bs20": [128.2, 112], "kk_npc14": [58.0, 104.0], "kk_npc_zhw": [78.0, 118.0], "kk_npc_cyblq": [107.0, 132.0], "kk_npc13": [48.0, 104.0], "kk_npc07": [47.0, 104.0], "kk_npc33": [49.5, 104.0], "kk_npc57": [145.0, 150.0], "kk_npc45": [120.0, 150.0], "kk_npc47": [143.0, 156.0], "kk_mo_ms": [138.0, 150.0], "kk_mo_dj": [117.0, 150.0], "kk_axiu": [54.5, 104.0], "portal_array": [200.0, 95.0], "wheel": [440, 440]}, "pet": {"b_ss_1221": {"sheet": "bp_ss_1221", "cols": 6, "rows": 2, "cw": 227.2, "ch": 172.8, "ox": 113.6, "by": 0, "H": 158, "seq": {"idle": [[0, 150]], "atk": [[4, 120], [5, 120], [6, 120], [7, 120]], "hit": [[8, 110], [9, 110]], "dodge": [[10, 110]]}, "rel": {"atk": 2}, "pfx": {"sheet": "pfx_ss_1221", "n": 4, "cw": 205.3, "ch": 153.5, "map": {"ss_hit": [0, 1], "ss_qk": [2, 3]}, "sc": {"ss_hit": 0.9, "ss_qk": 1.2}}}, "b_ss_1222": {"sheet": "bp_ss_1222", "cols": 6, "rows": 2, "cw": 188.8, "ch": 162.8, "ox": 94.4, "by": 0, "H": 160, "seq": {"idle": [[0, 150]], "atk": [[4, 120], [5, 120], [6, 120], [7, 120]], "hit": [[8, 110], [9, 110]], "dodge": [[10, 110]]}, "rel": {"atk": 2}, "pfx": {"sheet": "pfx_ss_1222", "n": 4, "cw": 268.2, "ch": 75.5, "map": {"ss_hit": [0, 1], "ss_sy": [2, 3]}, "sc": {"ss_hit": 1, "ss_sy": 1.2}}}, "b_ss_1223": {"sheet": "bp_ss_1223", "cols": 6, "rows": 2, "cw": 172.4, "ch": 157.7, "ox": 86.2, "by": 0, "H": 150, "seq": {"idle": [[0, 150]], "atk": [[4, 120], [5, 120], [6, 120], [7, 120]], "hit": [[8, 110], [9, 110]], "dodge": [[10, 110]]}, "rel": {"atk": 2}, "pfx": {"sheet": "pfx_ss_1223", "n": 6, "cw": 238.2, "ch": 107.6, "map": {"ss_hit": [0, 1], "ss_sx": [2, 3], "ss_tsy": [4, 5]}, "sc": {"ss_hit": 1, "ss_sx": 1.1, "ss_tsy": 1.3}}}, "b_ss_1224": {"sheet": "bp_ss_1224", "cols": 6, "rows": 2, "cw": 188.4, "ch": 155.7, "ox": 94.2, "by": 0, "H": 150, "seq": {"idle": [[0, 150]], "atk": [[4, 120], [5, 120], [6, 120], [7, 120]], "hit": [[8, 110], [9, 110]], "dodge": [[10, 110]]}, "rel": {"atk": 2}, "pfx": {"sheet": "pfx_ss_1224", "n": 3, "cw": 289.6, "ch": 277.1, "map": {"ss_hit": [0], "ss_ts": [1, 2]}, "sc": {"ss_hit": 1, "ss_ts": 1.2}}}, "b_ss_1225": {"sheet": "bp_ss_1225", "cols": 6, "rows": 2, "cw": 238.4, "ch": 152.3, "ox": 119.2, "by": 0, "H": 150, "seq": {"idle": [[0, 150]], "atk": [[4, 120], [5, 120], [6, 120], [7, 120]], "hit": [[8, 110], [9, 110]], "dodge": [[10, 110]]}, "rel": {"atk": 2}, "pfx": {"sheet": "pfx_ss_1225", "n": 4, "cw": 237.3, "ch": 527.3, "map": {"ss_hit": [0, 1], "ss_sg": [2, 3]}, "sc": {"ss_hit": 1, "ss_sg": 1.3}}}, "b_ss_1226": {"sheet": "bp_ss_1226", "cols": 6, "rows": 2, "cw": 259.3, "ch": 183.2, "ox": 129.7, "by": 0, "H": 165, "seq": {"idle": [[0, 150]], "atk": [[4, 120], [5, 120], [6, 120], [7, 120]], "hit": [[8, 110], [9, 110]], "dodge": [[10, 110]]}, "rel": {"atk": 2}, "pfx": {"sheet": "pfx_ss_1226", "n": 10, "cw": 208.8, "ch": 123.8, "map": {"ss_hit": [0, 1, 2, 3], "ss_th": [4, 5, 6], "ss_dy": [7, 8, 9]}, "sc": {"ss_hit": 1, "ss_th": 1.5, "ss_dy": 1.2}}}, "b_ss_1227": {"sheet": "bp_ss_1227", "cols": 6, "rows": 2, "cw": 170.2, "ch": 146.1, "ox": 85.1, "by": 0, "H": 142, "seq": {"idle": [[0, 150]], "atk": [[4, 120], [5, 120], [6, 120], [7, 120]], "hit": [[8, 110], [9, 110]], "dodge": [[10, 110]]}, "rel": {"atk": 2}, "pfx": {"sheet": "pfx_ss_1227", "n": 7, "cw": 184.1, "ch": 90.3, "map": {"ss_hit": [0, 1], "ss_sl_bw": [2, 3], "ss_kl": [4, 5, 6]}, "sc": {"ss_hit": 1, "ss_sl_bw": 1, "ss_kl": 1.3}}}, "b_ss_bs20": {"sheet": "bp_ss_bs20", "cols": 6, "rows": 2, "cw": 225.3, "ch": 121.5, "ox": 112.6, "by": 0, "H": 112, "seq": {"idle": [[0, 150]], "atk": [[4, 120], [5, 120], [6, 120], [7, 120]], "hit": [[8, 110], [9, 110]], "dodge": [[10, 110]]}, "rel": {"atk": 2}, "pfx": {"sheet": "pfx_ss_bs20", "n": 6, "cw": 154.5, "ch": 138.8, "map": {"attack": [0, 1], "bite": [2, 3], "foxfire": [4, 5]}, "sc": {"attack": 1, "bite": 1, "foxfire": 1.3}}}}, "occ": {}};

diff --git a/js/game.js b/js/game.js
@@ -661,7 +661,14 @@ function wheelStep(t) {
       cx.strokeStyle = '#b98544'; cx.lineWidth = l[4] * 0.3; cx.beginPath(); cx.moveTo(l[0] - 1, l[1]); cx.lineTo(l[2] - 1, l[3]); cx.stroke(); });
     cx.restore(); }
   const th = w.thick || 10; for (let i = th; i > 0; i--) draw(W.back, -i);
-  draw(W.spr, 0); W.drawn = true;
+  draw(W.spr, 0);
+  if (w.water) { cx.save(); cx.globalCompositeOperation = 'source-atop'; cx.setTransform(sc, 0, 0, sc, -x0 * sc, -y0 * sc);      // 泡在水里的部分：压一层青绿
+    const g = cx.createLinearGradient(0, w.water, 0, w.water + 30); g.addColorStop(0, 'rgba(30,150,150,0)'); g.addColorStop(1, 'rgba(30,150,150,.5)');
+    cx.fillStyle = g; cx.fillRect(x0, w.water, x1 - x0, y1 - w.water); cx.restore();
+    cx.save(); cx.setTransform(sc, 0, 0, sc, -x0 * sc, -y0 * sc); cx.strokeStyle = 'rgba(235,255,255,.55)'; cx.lineWidth = 1.6;           // 入水处的浪花
+    for (let i = 0; i < 3; i++) { const ph = (t * 0.9 + i / 3) % 1; cx.globalAlpha = (1 - ph) * .8; cx.beginPath(); cx.ellipse(w.H[0] - 6 + i * 4, w.water + 2, 22 + ph * 26, 4 + ph * 6, 0, 0, Math.PI * 2); cx.stroke(); }
+    cx.restore(); }
+  W.drawn = true;
 }
 function loadMap(id, at) {
   const def = D.maps[id];

diff --git a/js/data.js b/js/data.js
@@ -401,7 +401,7 @@ window.DATA = {
         { poly: [[1700,330],[1752,330],[1762,380],[1905,440],[1908,525],[1860,562],[1790,548],[1700,565],[1612,548],[1602,500],[1602,416],[1690,375]], base: 565 }
       ],
       glows: [[1110,330],[1570,520],[1790,960],[1710,520]],
-      wheel: { box: [1380, 740, 1620, 1000], H: [1497, 862], R: 100, sx: 0.6, phi: 8, thick: 12, speed: 0.4, legs: [[1490, 870, 1468, 945, 8], [1496, 870, 1522, 950, 8]] },
+      wheel: { box: [1380, 740, 1620, 1010], H: [1497, 858], R: 112, sx: 0.6, phi: 8, thick: 7, speed: 0.4, water: 944, legs: [[1490, 866, 1466, 950, 8], [1496, 866, 1524, 954, 8]] },
       opens: [[[1310, 495], [1335, 515], [1415, 478], [1395, 452]],   // 大屋右侧台阶底
         [[1790, 1255], [1885, 1255], [1895, 1305], [1790, 1310]],   // 右下药铺门口的木地板（阿秀站这儿）
         [[110, 1135], [105, 1075], [185, 1050], [200, 990], [260, 965], [470, 950], [570, 935], [585, 960], [395, 1040], [378, 1085], [385, 1170], [450, 1215], [330, 1235], [300, 1200], [225, 1125], [205, 1112]]],   // 桥西草屋的木平台和台阶
